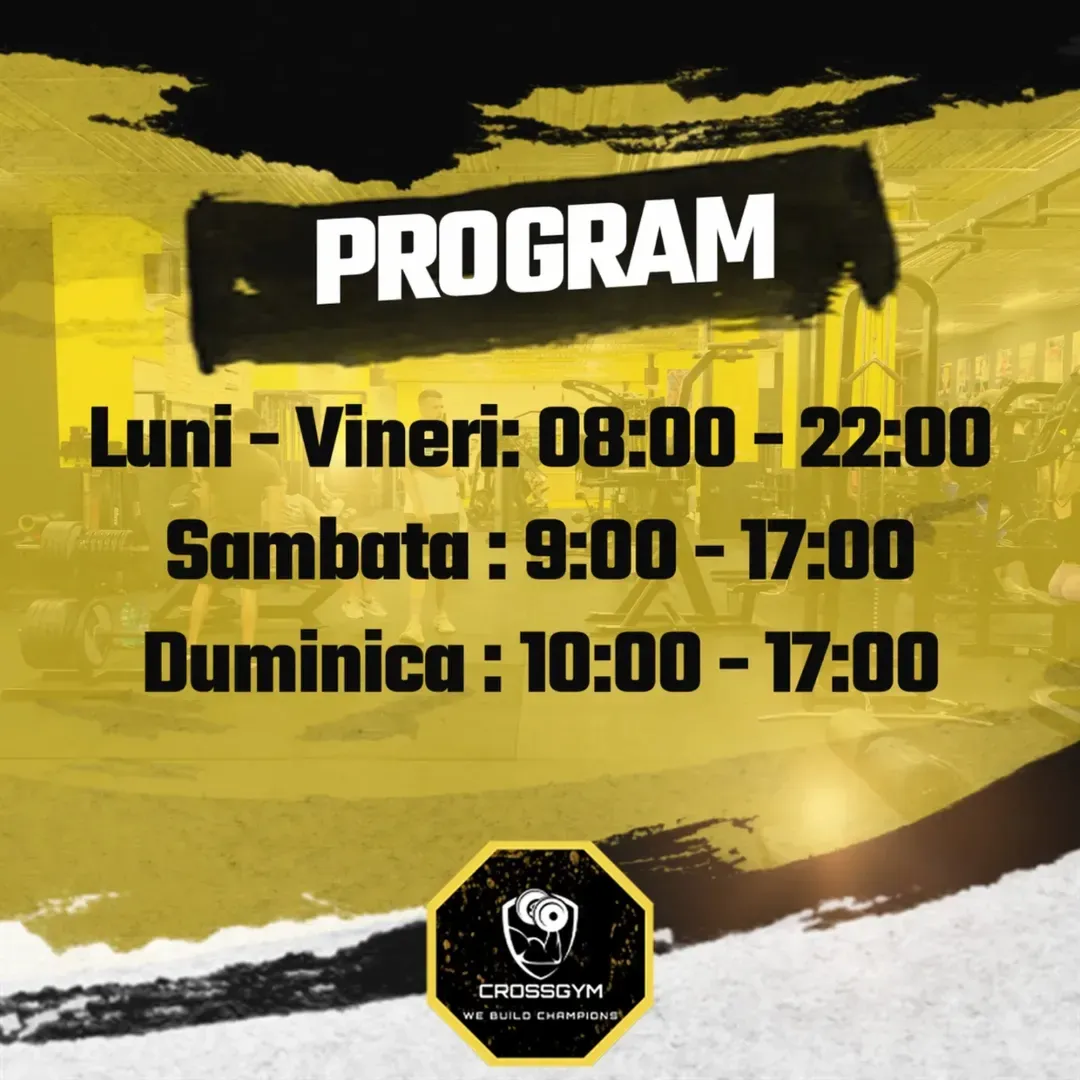
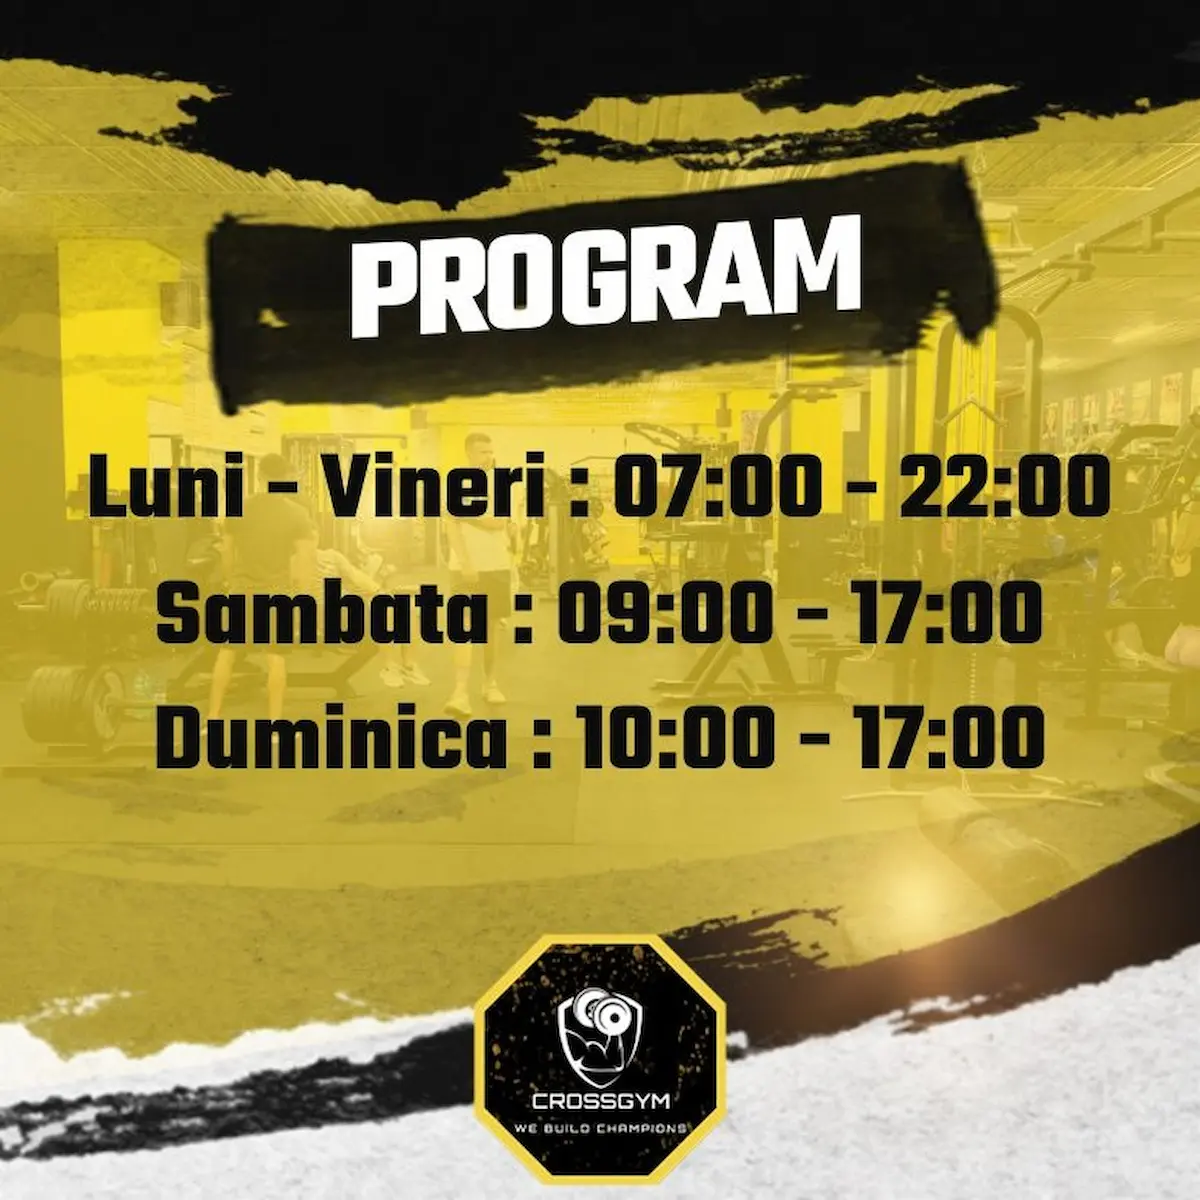
Program modificat: poza + index

diff --git a/index.html b/index.html
@@ -210,7 +210,7 @@
         </button>
         <div class="cap">
           <div class="t">Program</div>
-          <div class="d">Luni–Vineri: 08:00–22:00 • Sâmbătă: 09:00–17:00 • Duminică: 10:00–17:00</div>
+          <div class="d">Luni–Vineri: 07:00–22:00 • Sâmbătă: 09:00–17:00 • Duminică: 10:00–17:00</div>
         </div>
       </article>
     </div>
